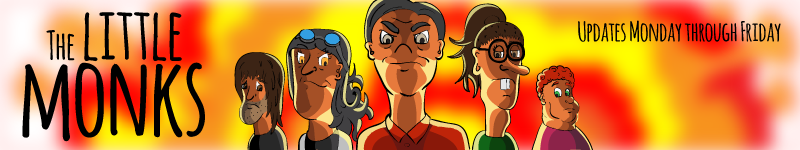
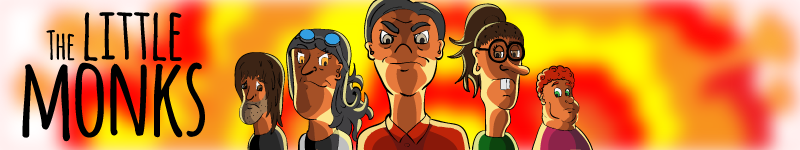
Some small changes due to the end of the webcomic. Plus some fixes for manage.

Changed region(s): [[0.7188, 0.1333, 1.0, 0.2933]]

diff --git a/pages/about.html b/pages/about.html
@@ -1,12 +1,12 @@
-{% extends "pages/base.html" %}
+{% extends "base.html" %}
 
 {% block content %}
 <div class="bordered">
   <h1>Who the heck am I?</h1>
 
-  <p>Hi there! I'm Myrjam, a creative flibbertigibbet from Belgium. Other than that, I am a pretty average 20-something who likes kitties and cupcakes.</p>
-  <p>This webcomic updates three times a week, on Monday, Wednesdays and Fridays. To stay informed about updates, follow The Little Monks on <a href="https://www.facebook.com/pages/The-Little-Monks/466458066741969" rel="_blank">Facebook</a>, <a href="https://twitter.com/TheLittleMonks" rel="_blank">Twitter</a> or <a href="https://google.com/+ThelittlemonksTLM" rel="_blank">Google+</a>.</p>
-  <p>The inspiration for this story comes from <a href="http://www.raphtillie.fr" rel="_blank">Raphaël Tillie</a>, a great 3D and VFX artist with an excellent sense of humor (hurry, go visit his website!). I do not claim that the basic storyline is originally mine but the webcomic, the characters and their stories are developed according to my own ideas and have a lot of added detail.</p>
+  <p>Hi there! I'm Myrjam, a comics creator and character designer from Belgium, currently living the life in New Zealand.</p>
+  <p>This webcomic has now come to an end! To stay informed about my other comics, follow me on <a href="https://www.facebook.com/myrjamvdvart" rel="_blank">Facebook</a>, <a href="https://twitter.com/myrjamvdv" rel="_blank">Twitter</a> or <a href="https://instagram.com/myrjamvdv" rel="_blank">Instagram</a>.</p>
+  <p>I do not claim that the basic storyline is originally mine but the webcomic, the characters and their stories are developed according to my own ideas and have a lot of added detail.</p>
   <p>If you want to have a better understanding of my sense of humor, go visit those other slightly less great (but still excellent) webcomics:</p>
   <p><a href="http://www.channelate.com" rel="_blank">Channelate</a></p>
   <p><a href="http://www.explosm.com/comics" rel="_blank">Cyanide and Happiness</a></p>

diff --git a/pages/home.html b/pages/home.html
@@ -1,4 +1,4 @@
-{% extends "pages/base.html" %}
+{% extends "base.html" %}
 
 {% block extra_headers %}
 <script type="text/javascript" src="/static/jquery.smooth-scroll.min.js"></script>

diff --git a/src/common.py b/src/common.py
@@ -14,7 +14,7 @@ else:
     LOC_ = 'http://thelittlemonks.com'
 LOC = LOC_ + '/'
 
-ROOT = os.path.join(os.path.dirname(__file__), '..')
+ROOT = os.path.join(os.path.dirname(os.path.dirname(__file__)), 'pages')
 JINJA_ENV = jinja2.Environment(
     loader=jinja2.FileSystemLoader(ROOT),
     extensions=['jinja2.ext.autoescape'],
@@ -115,7 +115,7 @@ def publish_one_more():
 def render_page(req_handler, filename, template_dict=None):
     if template_dict is None:
         template_dict = {}
-    template_path = os.path.join('pages', filename)
+    template_path = filename
     template = JINJA_ENV.get_template(template_path)
     template_dict['base'] = LOC
     req_handler.response.write(template.render(template_dict))
